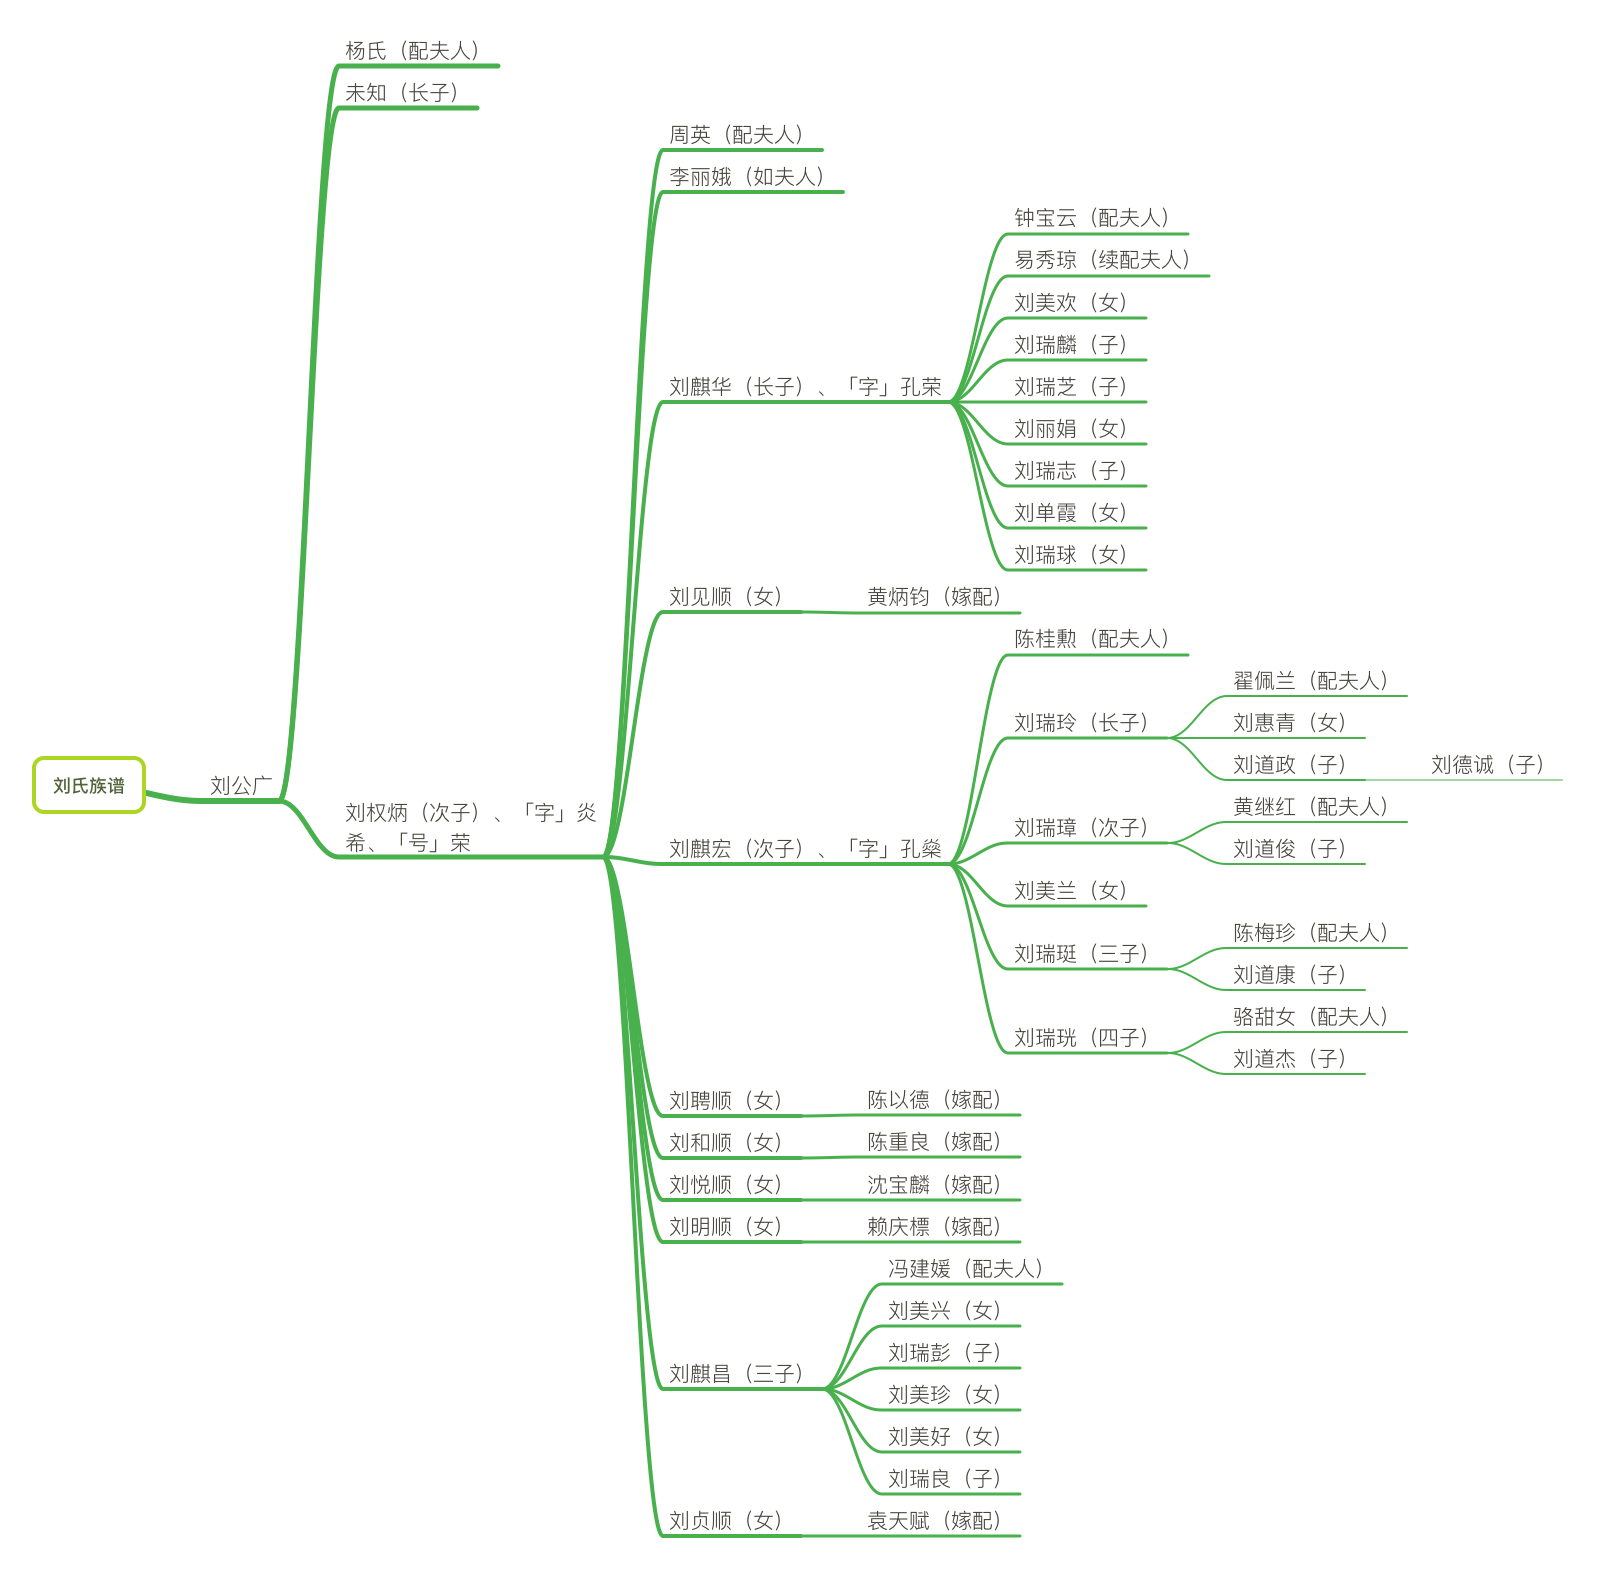
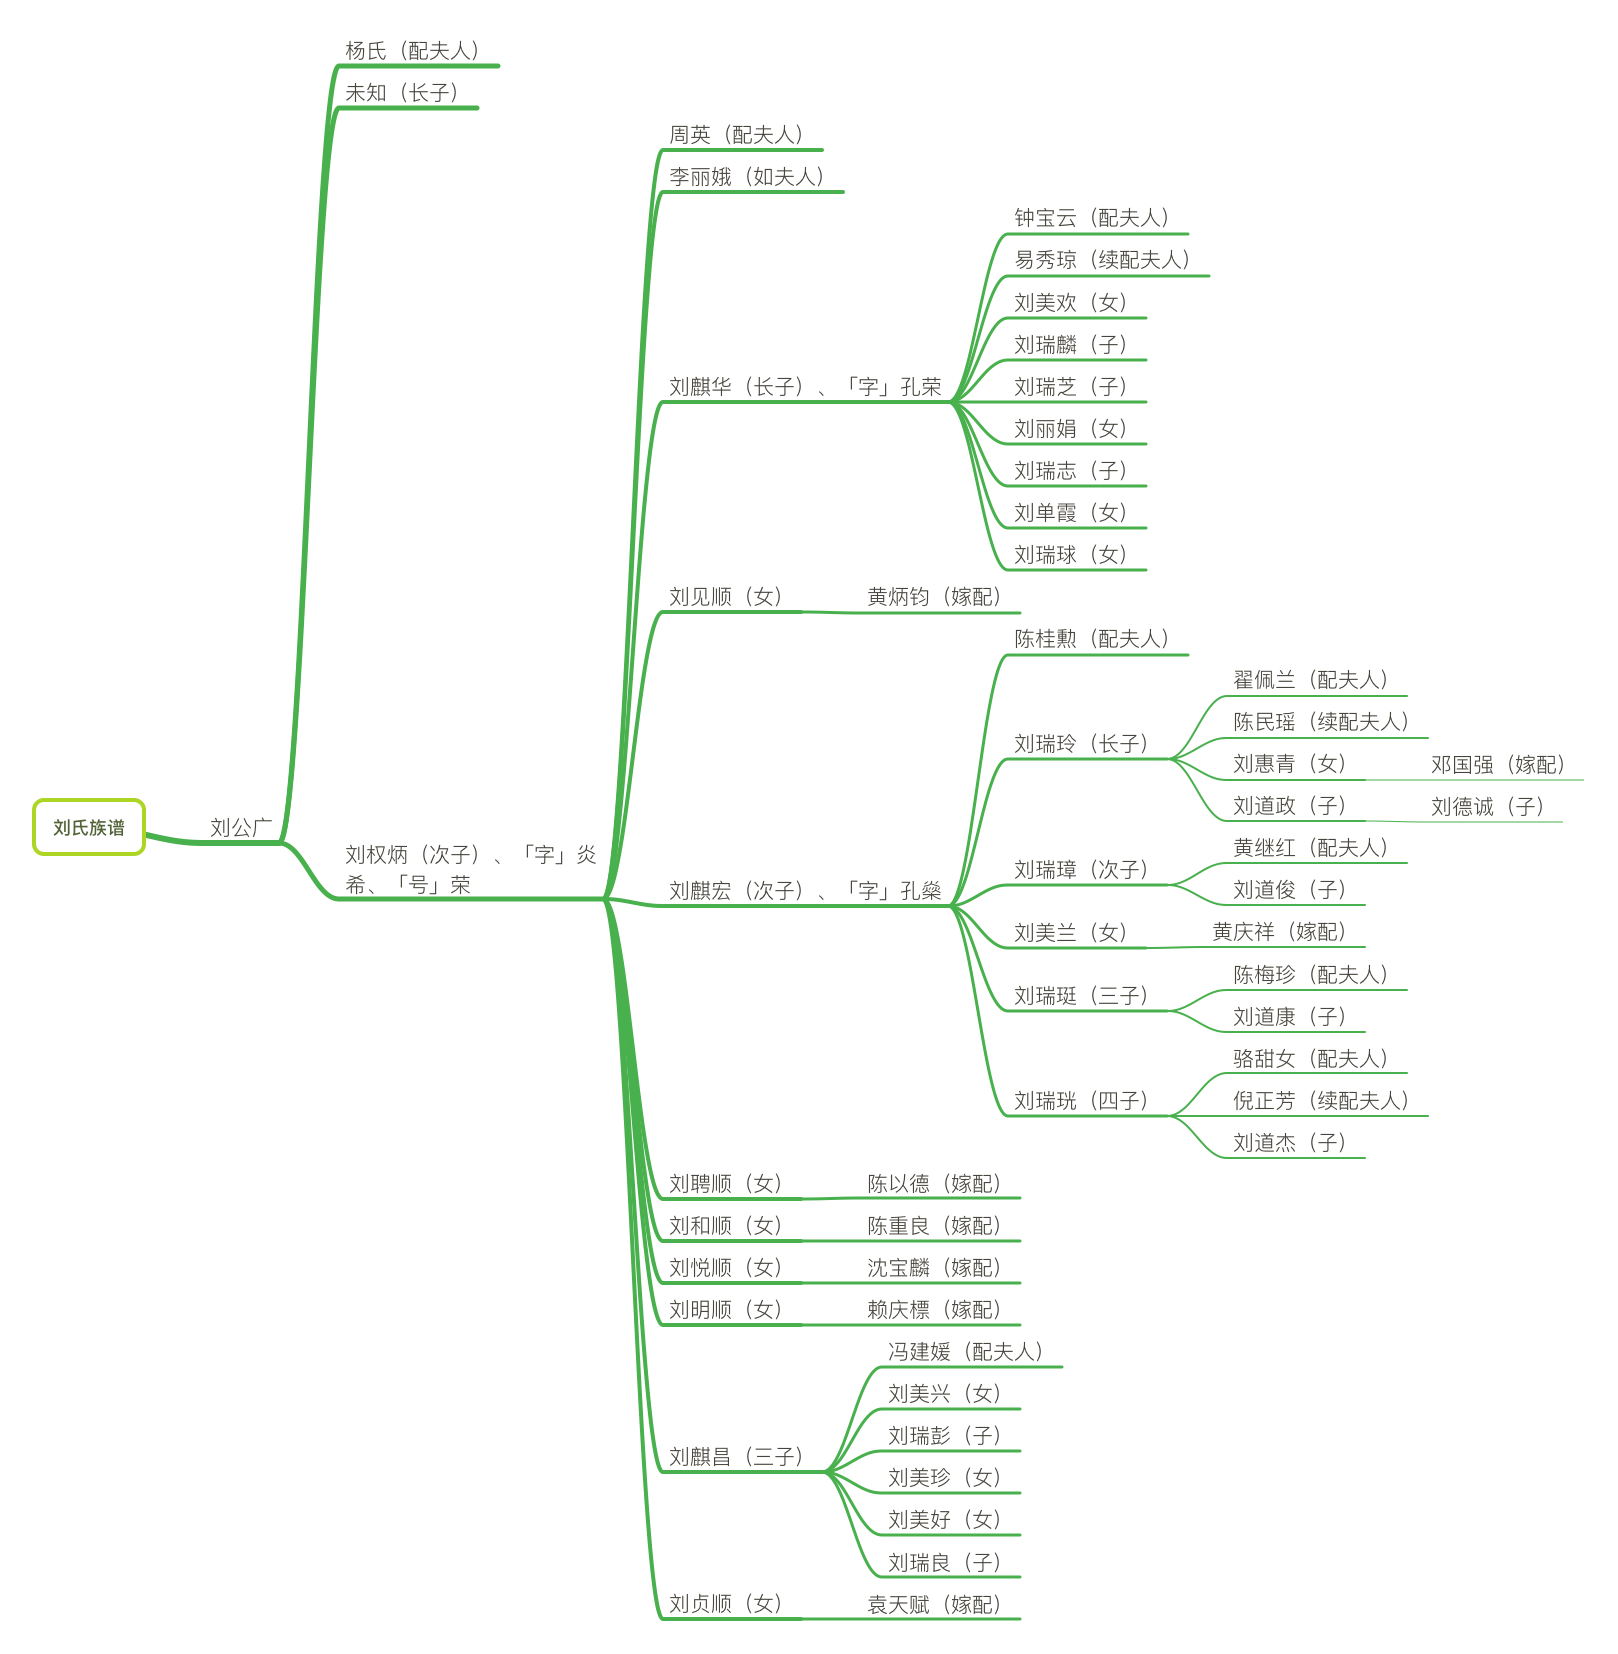
添加部分人物

diff --git a/README.md b/README.md
@@ -2,9 +2,12 @@
 
 
 ## **版本修改记录**
+当前版本:2
+
 |版本号|修改内容|修改人|
 |------|--------|---|
-|0.8|初版|刘道俊|
+|2|添加部分人物|刘道俊|
+|1|初版|刘道俊|
 
 
 ## **起源**
@@ -17,7 +20,7 @@
 我祖规例每代结婚时改之名曰字要随着以上一字另加一字,名曰结婚名字以分老幼辈之称。
 
 ## **谱图**
-![png][1]
+![png](https://raw.githubusercontent.com/RexGene/family/master/tree/tree.png)
 
 
 ## **人物介绍**
@@ -27,4 +30,3 @@
 * **终于**:贰月初壹
 * **简介**:刘氏祖宗,事迹未名。
 
-[1]:https://raw.githubusercontent.com/RexGene/family/master/tree/tree.png
